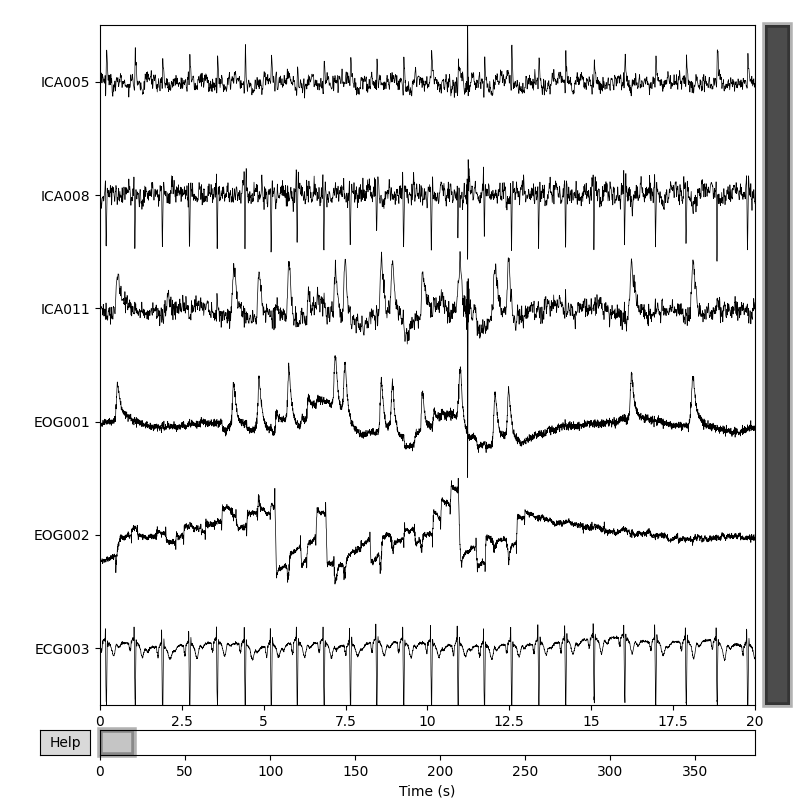
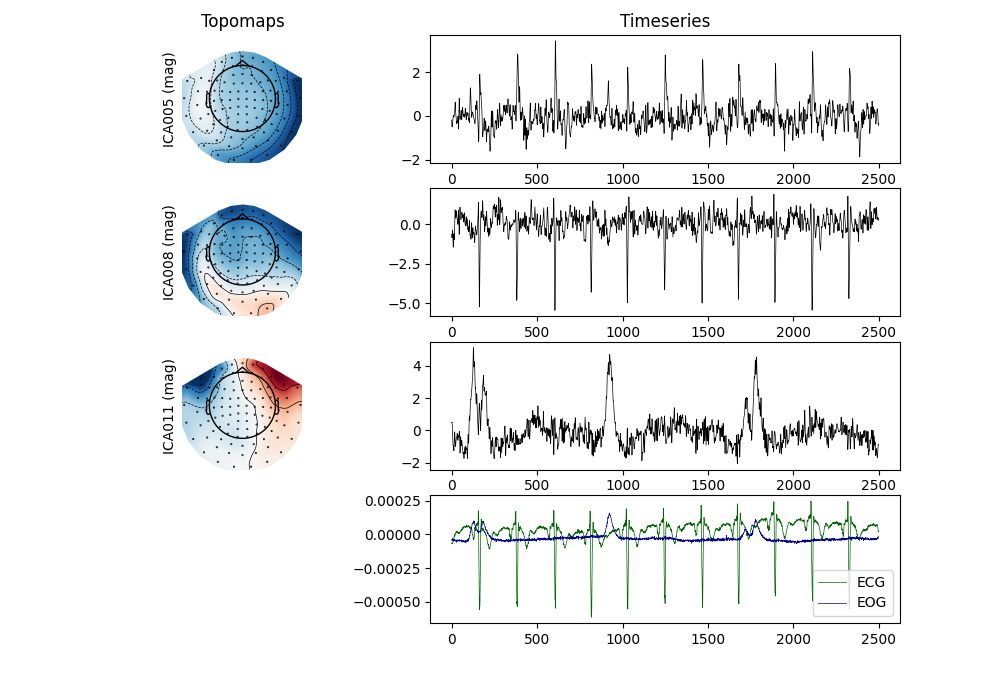
first draft of plot

diff --git a/preprocessing/ica_example_plot.py b/preprocessing/ica_example_plot.py
@@ -4,25 +4,55 @@ import matplotlib.pyplot as plt
 from pathlib import Path
 import json
 
-def plot_noise_components(ica, raw, ica_noise_components):
+import matplotlib.pyplot as plt
+from matplotlib.gridspec import GridSpec
+
+plt.rcParams['font.family'] = 'sans-serif'
+
+def plot_noise_components(ica, raw, ica_noise_components, outpath):
     """
     Plots the noise components of an ICA object.
     """
-    fig, axes = plt.subplots(1, 2, figsize=(15, 5))
+    fig = plt.figure(figsize=(10, 7))
+    spec = GridSpec(4, 2, width_ratios=[1, 2])
 
-    # plot the topomap of the components
-    ica.plot_components(inst=raw, picks=ica_noise_components, axes=axes[0], show=False)
+    # Create subplots using the grid
+    topomap_axes = [plt.Subplot(fig, spec[i, 0]) for i in range(4)]
+    time_series_axes = [plt.Subplot(fig, spec[i, 1]) for i in range(4)]
 
-    # plot the time series of the components
-    # extract the time series of the components
-    ica_sources = ica.get_sources(raw)
-    print(ica_sources.shape)
+    for i in range(4):
+        fig.add_subplot(topomap_axes[i])
+        fig.add_subplot(time_series_axes[i])
 
-    # plot the time series of the components
-    axes[1].plot(ica_sources.get_data()[ica_noise_components].T)
+    # Plot the topomap of the components
+    ica.plot_components(inst=raw, picks=ica_noise_components, axes=topomap_axes, show=False)
+    for ax in topomap_axes:
+        title = ax.get_title()
+        ax.set_title("")
+        ax.set_ylabel(title)
+
+    topomap_axes[-1].axis("off")
+
+    # Plot the time series of the components
+    freq = raw.info["sfreq"]
+    ica_sources = ica.get_sources(raw).get_data(start=int(20*freq), stop=int(30*freq))[ica_noise_components]
+    extra_sensors = raw.get_data(['EOG001', 'EOG002', 'ECG003'], start=int(20*freq), stop=int(30*freq))
+
+    # Plot the time series of the components
+    for idx, ax in enumerate(time_series_axes[:3]):
+        ax.plot(ica_sources[idx].T, linewidth=0.5, color="k")
+
+    time_series_axes[-1].plot(extra_sensors[2].T, label="ECG", linewidth=0.5, color="darkgreen")
+    time_series_axes[-1].plot(extra_sensors[0].T, label="EOG", linewidth=0.5, color="darkblue")
+    time_series_axes[-1].legend()
+
+    # set labels
+    topomap_axes[0].set_title("Topomaps")
+    time_series_axes[0].set_title("Timeseries")
+
 
     plt.savefig(outpath / "ica_components.png")
-    
+
 
 
 if __name__ in "__main__":
@@ -66,5 +96,5 @@ if __name__ in "__main__":
     ica_noise_components = subject_session_info["noise_components"]
 
     # plot the noise ica components
-    plot_noise_components(ica, raw, ica_noise_components)
+    plot_noise_components(ica, raw, ica_noise_components, outpath)
     
